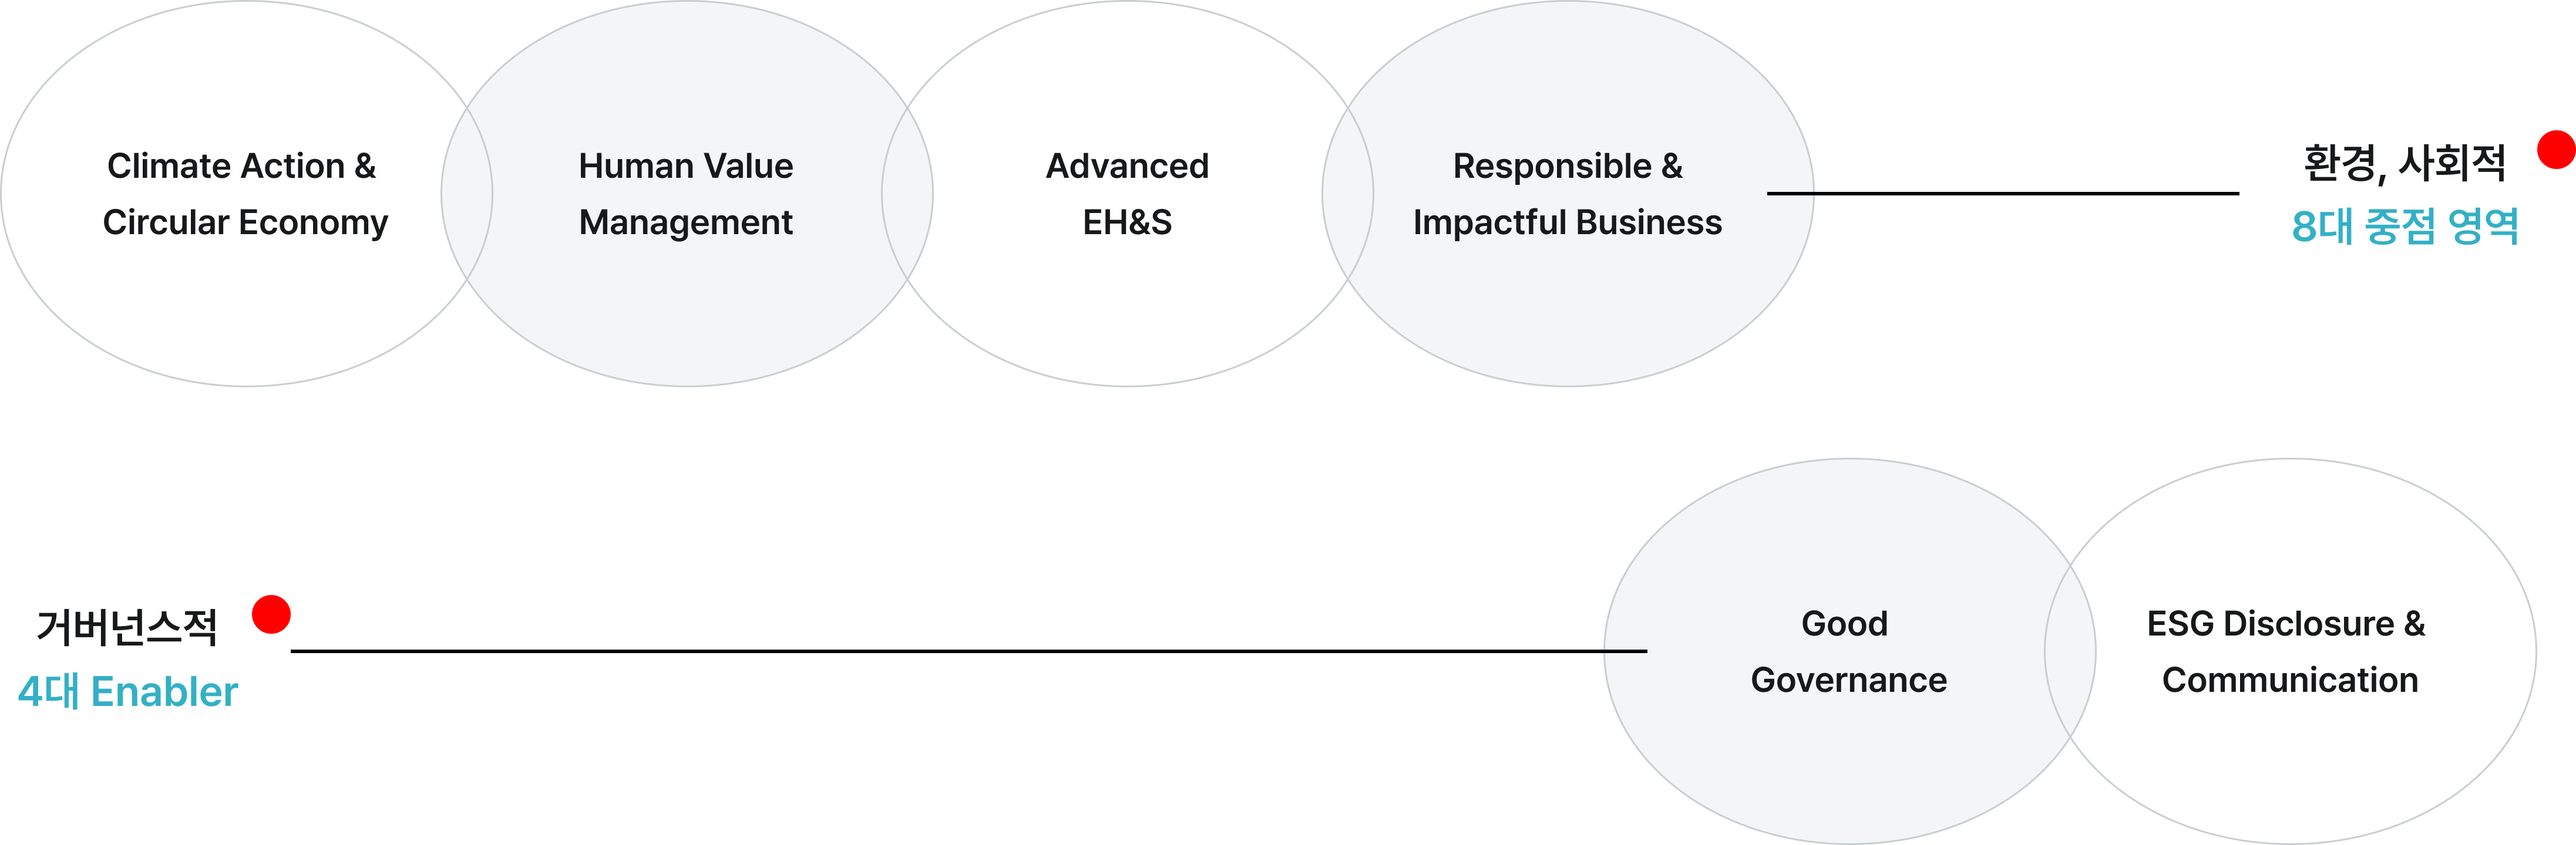
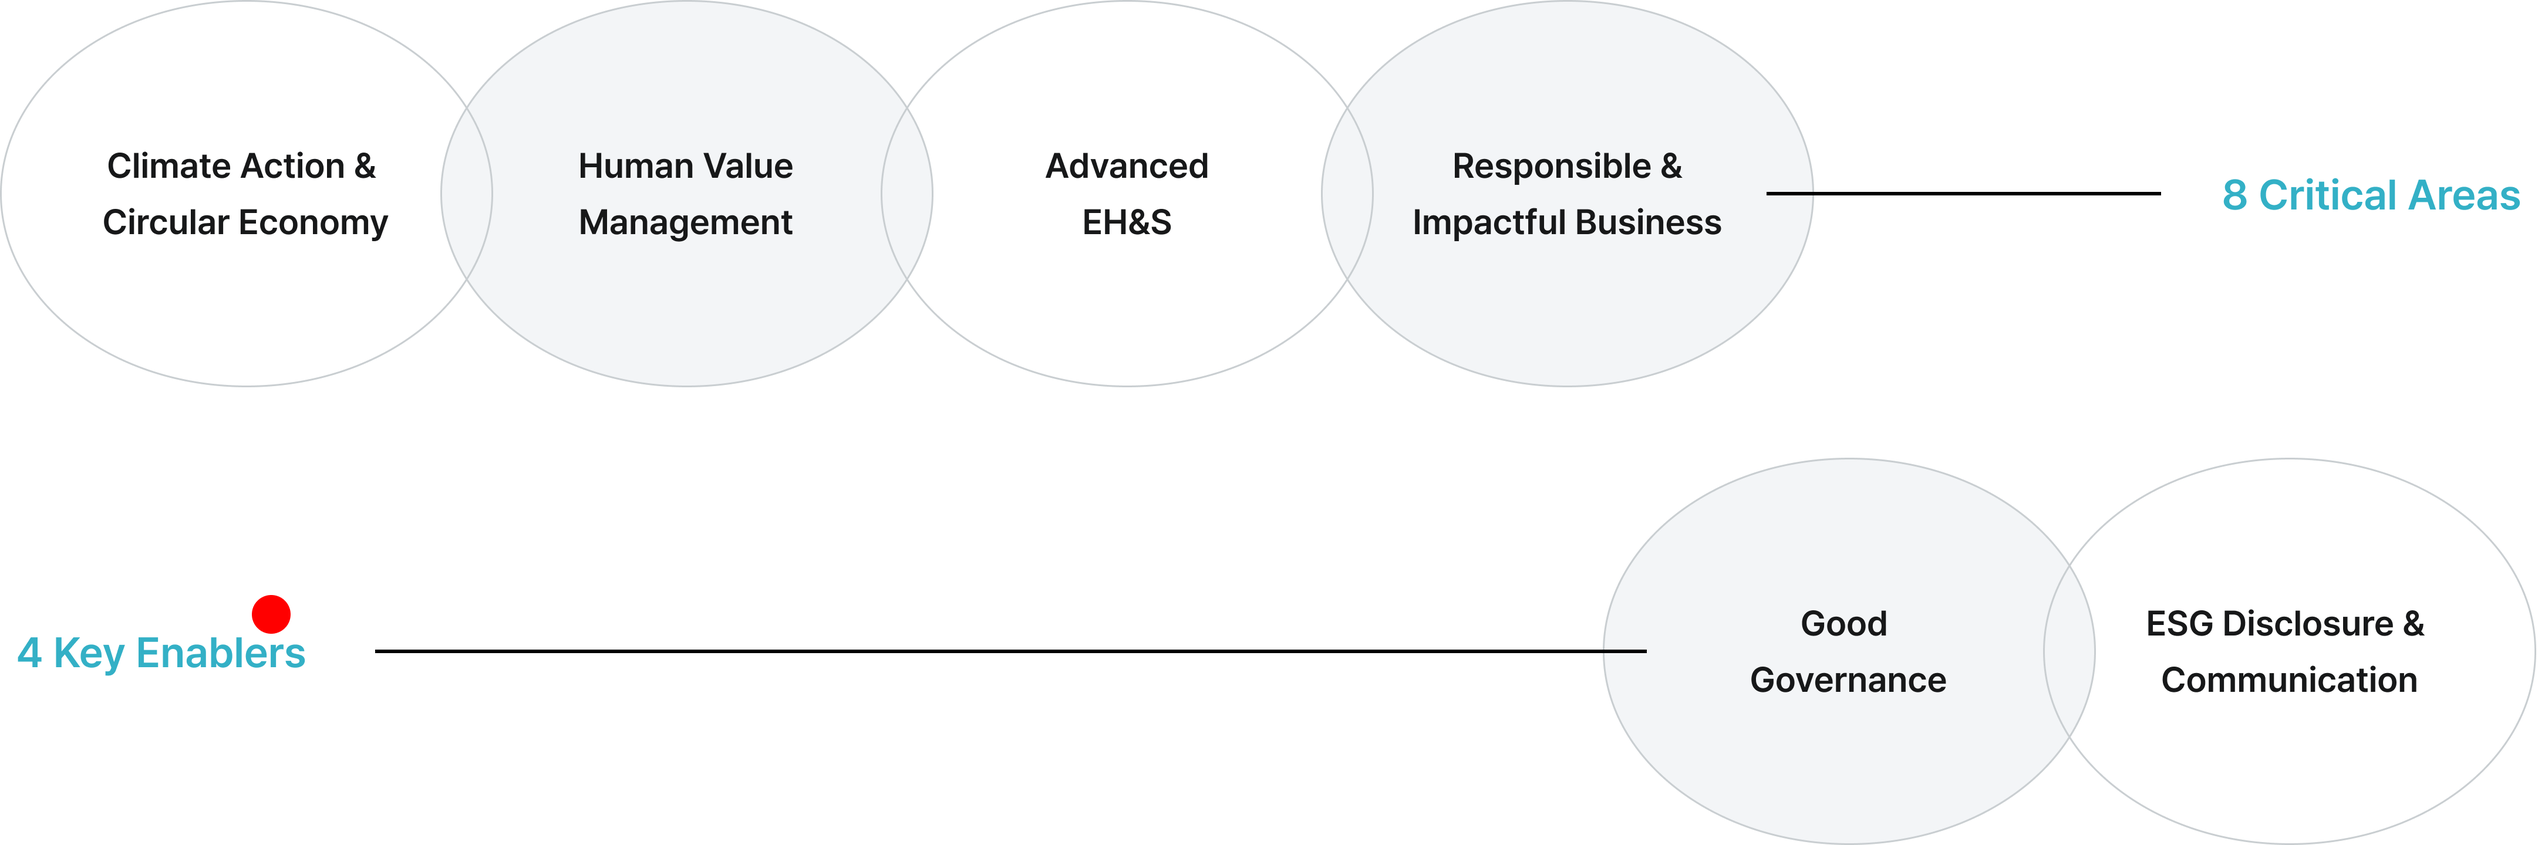
지속가능경영 > 추진체계 영문 수정

diff --git a/public/src/pages_en/sust/sust_sys_strategy_01_mo.html b/public/src/pages_en/sust/sust_sys_strategy_01_mo.html
@@ -248,8 +248,8 @@
                                                 </div>
                                                 <div class="article-content">
                                                     <div class="img-box">
-                                                        <img src="../../../inc/images/img/esgm01_cont2_mo_en.png" loading="lazy" alt="환경, 사회적 8대 중점 영역 : Climate Action & Circular Economy / Human Value Management / Advanced EH&S / Responsible & Impactful Business 
-                                                    거버넌스적 4대 Enabler : Good Governance / ESG Disclosure & Communication" class="mo-only"/>
+                                                        <img src="../../../inc/images/img/esgm01_cont2_mo_en.png" loading="lazy" alt="8 Critical Areas : Climate Action & Circular Economy / Human Value Management / Advanced EH&S / Responsible & Impactful Business 
+                                                        4 Key Enablers : Good Governance / ESG Disclosure & Communication" class="mo-only"/> <!-- 09.04 / alt값 변경 -->
                                                     </div>                                            
                                                 </div>
                                                 <div class="article-content">

diff --git a/public/src/pages_en/sust/sust_sys_strategy_01.html b/public/src/pages_en/sust/sust_sys_strategy_01.html
@@ -460,8 +460,8 @@
                                             </div>
                                             <div class="article-content">
                                                 <div class="img-box">
-                                                    <img src="../../../inc/images/img/sust01_img_tab1_02_en.png" loading="lazy" alt="환경, 사회적 8대 중점 영역 : Climate Action & Circular Economy / Human Value Management / Advanced EH&S / Responsible & Impactful Business 
-                                                    거버넌스적 4대 Enabler : Good Governance / ESG Disclosure & Communication" class="pc-only"/>
+                                                    <img src="../../../inc/images/img/sust01_img_tab1_02_en.png" loading="lazy" alt="8 Critical Areas : Climate Action & Circular Economy / Human Value Management / Advanced EH&S / Responsible & Impactful Business 
+                                                    4 Key Enablers : Good Governance / ESG Disclosure & Communication" class="pc-only"/> <!-- 09.04 / alt값 변경 -->
                                                 </div>                                            
                                             </div>
                                             <div class="article-content">
